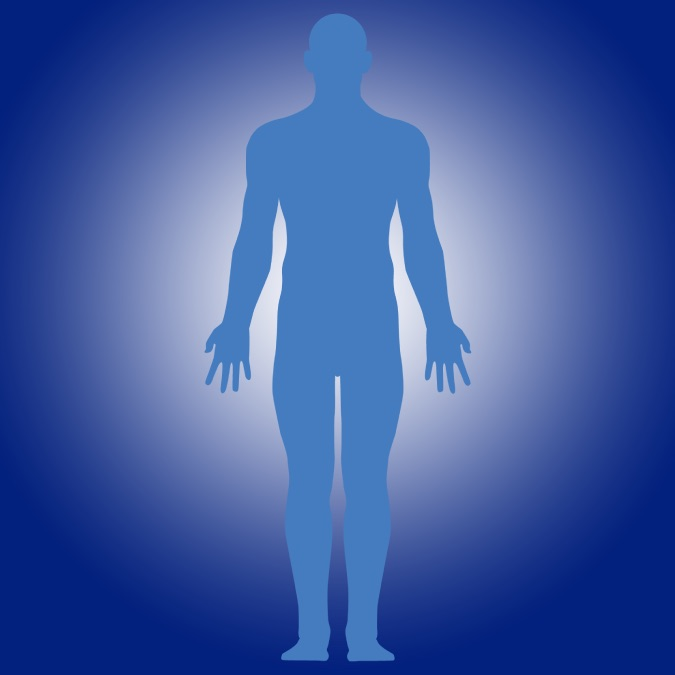
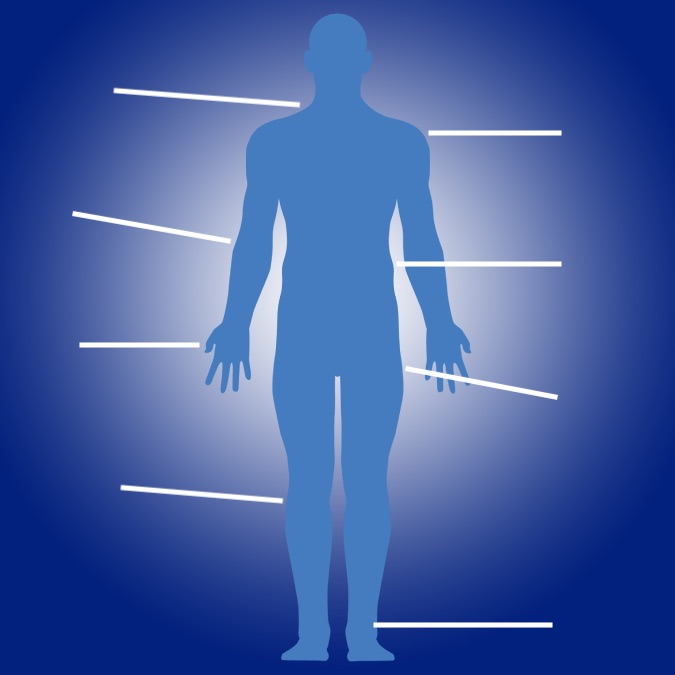
Added lines to image

diff --git a/src/components/PhysioReport/PhysioReport.js b/src/components/PhysioReport/PhysioReport.js
@@ -1,7 +1,6 @@
 import React from 'react';
 import './PhysioReport.css';
 import Blueman from '../Blueman';
-import { makeStyles } from '@material-ui/styles';
 import FormControl from '@material-ui/core/FormControl';
 import Grid from '@material-ui/core/Grid';
 import Select from '@material-ui/core/Select';
@@ -12,14 +11,7 @@ import TableCell from '@material-ui/core/TableCell';
 import TableHead from '@material-ui/core/TableHead';
 import TableRow from '@material-ui/core/TableRow';
 
-const useStyles = makeStyles(theme => ({
-  tableHead: {
-    fontWeight: 600
-  }
-}));
-
 function PhysioReport() {
-  const classes = useStyles();
   const [dept, setDept] = React.useState('all');
 
   return (

diff --git a/src/components/BoxToDate/BoxToDate.js b/src/components/BoxToDate/BoxToDate.js
@@ -27,10 +27,10 @@ function BoxToDate(props) {
     >
       <Grid container spacing={1}>
         <Grid item xs={6}>
-          <Paper className={classes.paper}>{value.mtd}</Paper>
+          <Paper className={classes.paper} elevation={3}>{value.mtd}</Paper>
         </Grid>
         <Grid item xs={6}>
-          <Paper className={classes.paper}>{value.ytd}</Paper>
+          <Paper className={classes.paper} elevation={3}>{value.ytd}</Paper>
         </Grid>
       </Grid>
     </Box>

diff --git a/src/components/Blueman/Blueman.js b/src/components/Blueman/Blueman.js
@@ -15,7 +15,7 @@ function Blueman() {
       <BoxToDate pos={{right: 30, top: 105}} value={{mtd: 2, ytd: 8}} />
       <BoxToDate pos={{right: 30, top: 240}} value={{mtd: 6, ytd: 19}} />
       <BoxToDate pos={{right: 30, top: 370}} value={{mtd: 0, ytd: 0}} />
-      <BoxToDate pos={{right: 30, top: 590}} value={{mtd: 0, ytd: 4}} />
+      <BoxToDate pos={{right: 30, top: 595}} value={{mtd: 0, ytd: 4}} />
     </div>
   );
 }
